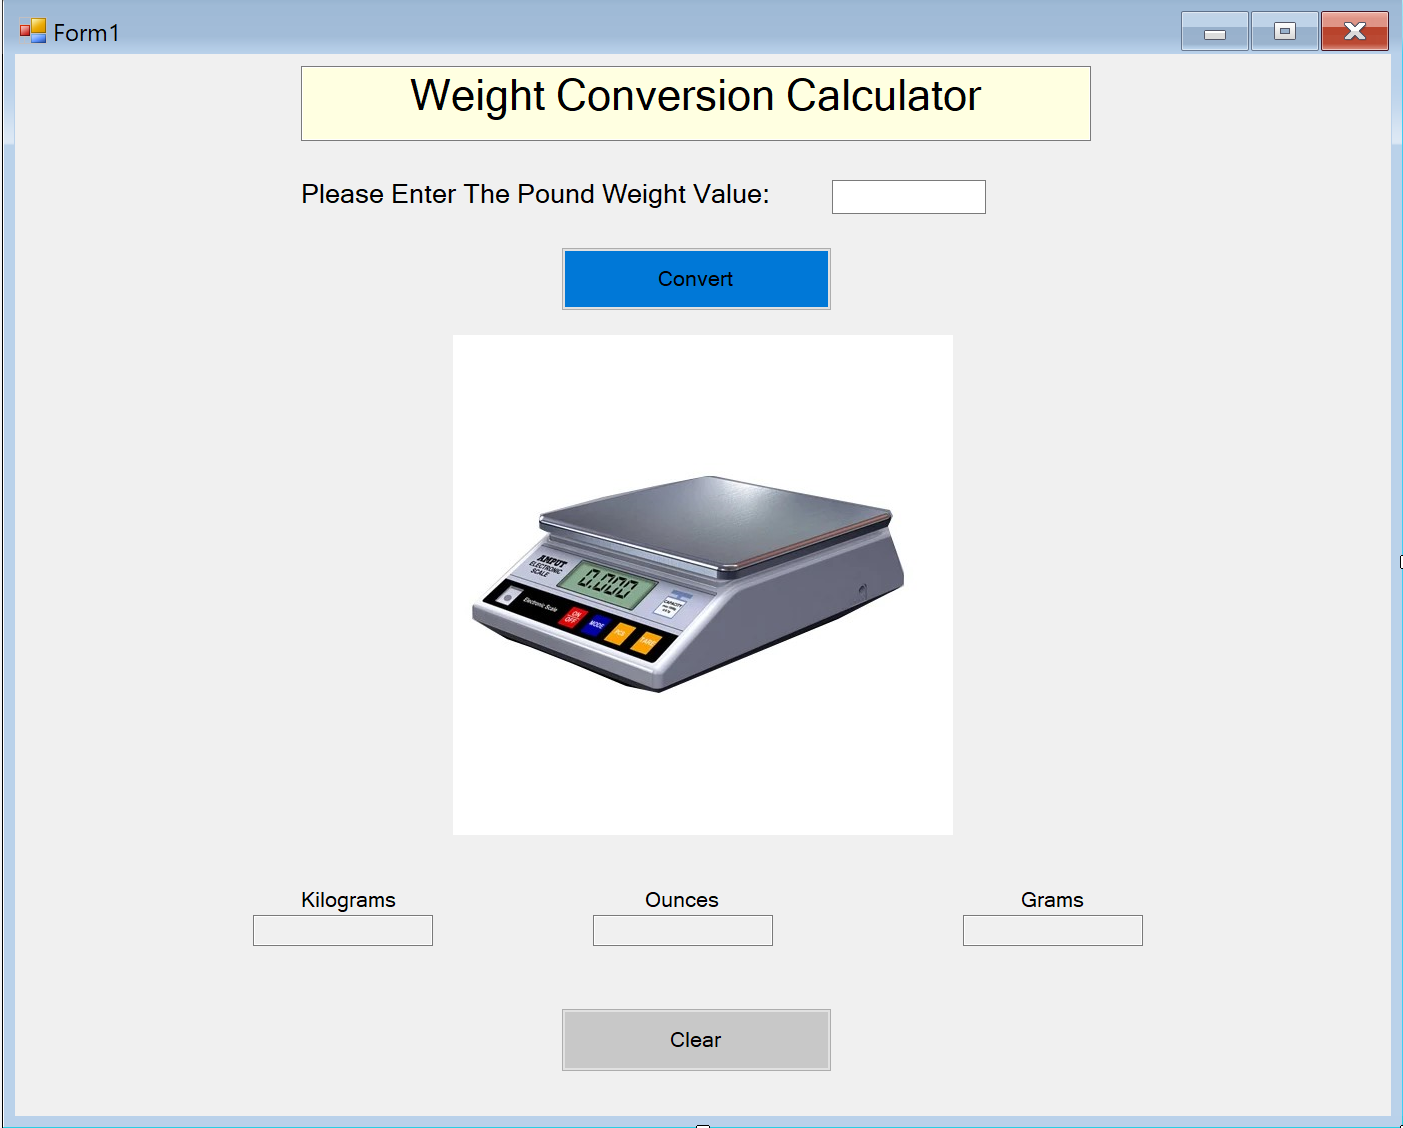
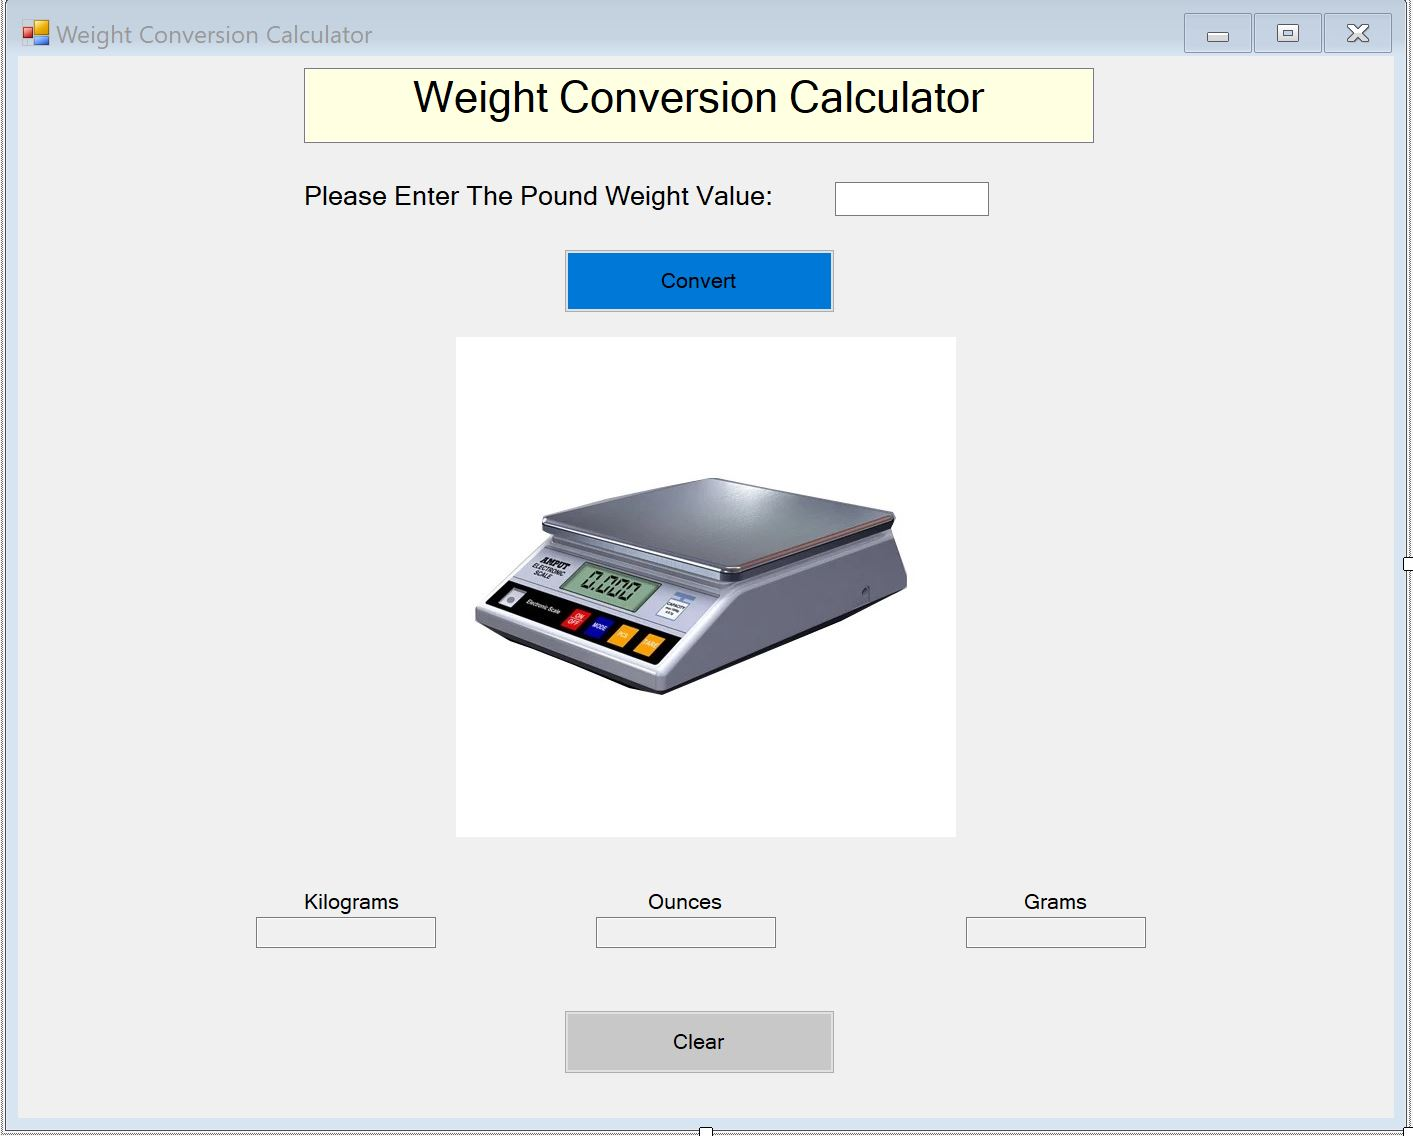
Add files via upload

diff --git a/BIS345-Week4-Exercise6-WeightCon/BIS345-Week4-Exercise6-WeightCon/Form1.cs b/BIS345-Week4-Exercise6-WeightCon/BIS345-Week4-Exercise6-WeightCon/Form1.cs
@@ -13,19 +13,14 @@ namespace BIS345_Week4_Exercise6_WeightCon
     public partial class Form1 : Form
     {
 
+        //[** START CLASSES**]//
+
+        //Parent Class: 1
+        //Child Classess: 3
 
         //(Class - 1P) [Parent], [Abstract], [3 Methods]
+
          public class WeightConverter {
-
-            public void PoundsToOuncesMethod()
-            {
-
-            }
-
-            public void PoundsToGramsMethod()
-            {
-
-            }
 
             public string PoundsToKilogramsMethod(double InputNumber)
             {
@@ -56,10 +51,68 @@ namespace BIS345_Week4_Exercise6_WeightCon
 
             }
 
+            public string PoundsToOuncesMethod(double InputNumber)
+            {
+                //*(Method - 2) = Pounds To Ounces Method. This Method, When Called Will Receive An Input
+                //From An Object That Is Created From The Child Class "class PoundsToOunces", That User Input
+                //Is Then Fed Into This Method As Type "double InputNumber". InputNumber Is Then Multiplied
+                //By 16, And Fed Into The "Answer" Variable Which Is Of Type Double. "Answer" Is Then Converted
+                //To A String And Assigned To The Return Variable "Answerout". From There That Value Is Printed To
+                //The "KiloGramsTextBox.Text" Text Box.
+
+                //**2 Variables**//
+                double Answer; //This Variable Is Assigned After The Input Number From The User Is Multiplied By 16
+                string Answerout; //This Variable Is The Return Variable Of This Function Which Is Of Type String
+                //**2 Variables**//
+
+
+                //**CALCULATION**//
+
+                //(Code Block - 1)
+                Answer = InputNumber * 16;
+
+                //(Code Block - 2)
+                Answerout = Convert.ToString(Answer);
+
+
+                //**END CALCULATION**//
+
+                //(Code Block -3)
+                return Answerout;
+
+            }
+
+            public string PoundsToGramsMethod(double InputNumber)
+            {
+                //*(Method - 3) = Pounds To Grams Method. This Method, When Called Will Receive An Input
+                //From An Object That Is Created From The Child Class "class GramsToKilograms", That User Input
+                //Is Then Fed Into This Method As Type "double InputNumber". InputNumber Is Then Multiplied
+                //By 453.592, And Fed Into The "Answer" Variable Which Is Of Type Double. "Answer" Is Then Converted
+                //To A String And Assigned To The Return Variable "Answerout". From There That Value Is Printed To
+                //The "GramsTextBox.Text" Text Box.
+
+                //**2 Variables**//
+                double Answer; //This Variable Is Assigned After The Input Number From The User Is Multiplied By 453.592
+                string Answerout; //This Variable Is The Return Variable Of This Function Which Is Of Type String
+               //**2 Variables**//
+
+                //**CALCULATION**//
+
+                //(Code Block - 1)
+                Answer = InputNumber * 453.592;
+
+                //(Code Block - 2)
+                Answerout = Convert.ToString(Answer);
+
+                //**END CALCULATION**//
+
+                //(Code Block -3)
+                return Answerout;
+            }
+
           }
 
         //(Class - 1C) [Child Of WeightConverter Parent Class]
-
         class PoundsToKiloGrams : WeightConverter{
 
 
@@ -82,6 +135,8 @@ namespace BIS345_Week4_Exercise6_WeightCon
 
              }
 
+        //[**END CLASSESS**]//
+
 
         public Form1()
         {
@@ -96,15 +151,51 @@ namespace BIS345_Week4_Exercise6_WeightCon
         private void ConvertButton_Click(object sender, EventArgs e)
         {
 
+            //**Main Logic**//
 
+            //(Code Block - 1 - START) This Code Takes The User's Input From The "Please Enter The Pound Weight Value"//
+            //This Value Is Parsed Into A Double Value And Assigned To The "UserPoundValueInput" variable//
             double UserPoundValueInput = double.Parse(UserPoundValueEnterTextBox.Text);
+            //(Code Block - 1 - END)//
+
+           // try
+            //{
 
 
+
+          //  }
+           // catch (Exception e)
+        //    {
+                // code that handles the exception
+        //    }
+
+            //(Code Block - 2 START)//
+            //(2.1 - Object Creation)//
             PoundsToKiloGrams KiloGramObject = new PoundsToKiloGrams();
 
-
+            //(2.2 - Object "KiloGramObject" Calling The Pounds To KiloGramsMethod With Parameter. Returns To The KiloGramsTextBox)//
             KiloGramsTextBox.Text = KiloGramObject.PoundsToKilogramsMethod(UserPoundValueInput);
-            
+            //(Code Block - 2 - END)//
+
+
+
+            //(Code Block - 3 START)//
+            //(3.1 - Object Creation)//
+            PoundsToOunces OuncesObject = new PoundsToOunces();
+
+            //(3.1 - Object "OuncesObject" Calling The Pounds To Ounces Method With Parameter. Returns To The OuncesTextBox)//
+            OuncesTextBox.Text = OuncesObject.PoundsToOuncesMethod(UserPoundValueInput);
+            //(Code Block - 3 - END)//
+
+
+
+            //(Code Block - 4 START)//
+            //(4.1 - Object Creation)//
+            PoundsToGrams GramsObject = new PoundsToGrams();
+
+            //(4.2 - Object "GramsObject" Calling The PoundsToGramsMethod With Parameter. Returns To The GramsTextBox)//
+            GramsTextBox.Text = GramsObject.PoundsToGramsMethod(UserPoundValueInput);
+            //(Code Block - 4 - END)//
 
 
         }

diff --git a/BIS345-Week4-Exercise6-WeightCon/BIS345-Week4-Exercise6-WeightCon/Form1.Designer.cs b/BIS345-Week4-Exercise6-WeightCon/BIS345-Week4-Exercise6-WeightCon/Form1.Designer.cs
@@ -170,7 +170,7 @@
             this.Controls.Add(this.label1);
             this.Controls.Add(this.TitleTextBox);
             this.Name = "Form1";
-            this.Text = "Form1";
+            this.Text = "Weight Conversion Calculator";
             this.ResumeLayout(false);
             this.PerformLayout();
 
